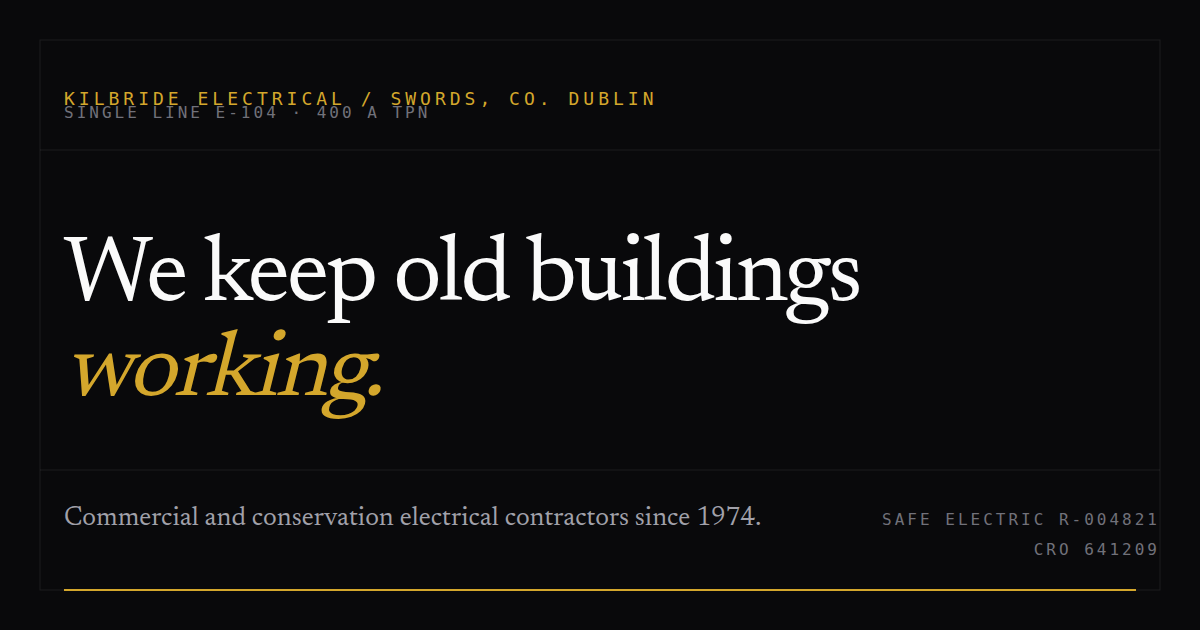
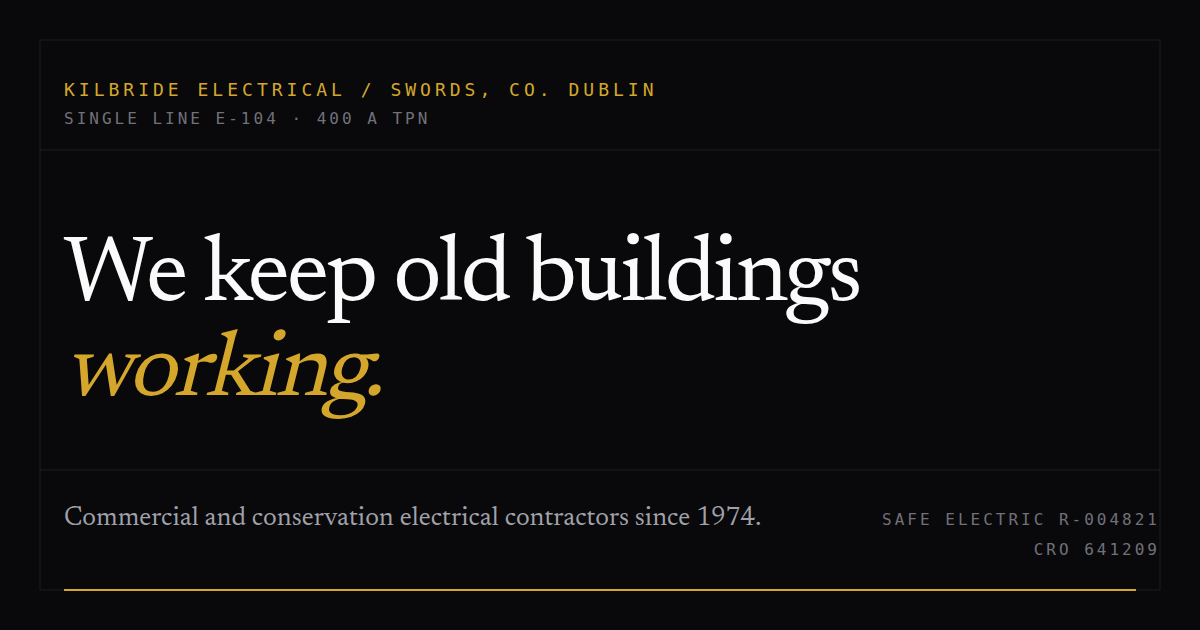
fix: separate OG image header lines and document evidence

Changed region(s): [[0.0308, 0.1206, 0.555, 0.2111]]

diff --git a/factory/templates/editorial-serif/README.md b/factory/templates/editorial-serif/README.md
@@ -156,6 +156,9 @@ The anti-slop gate rejects filler phrases from
 colour utilities. This template uses token variables throughout, including in
 the technical plates.
 
+Reference captures for template 0.1.0, including the scaffold baseline for the
+foundation ticket, live in `docs/evidence/`.
+
 ## Demo content and legal text
 
 The brand, staff names, project data, registration numbers and phone numbers
